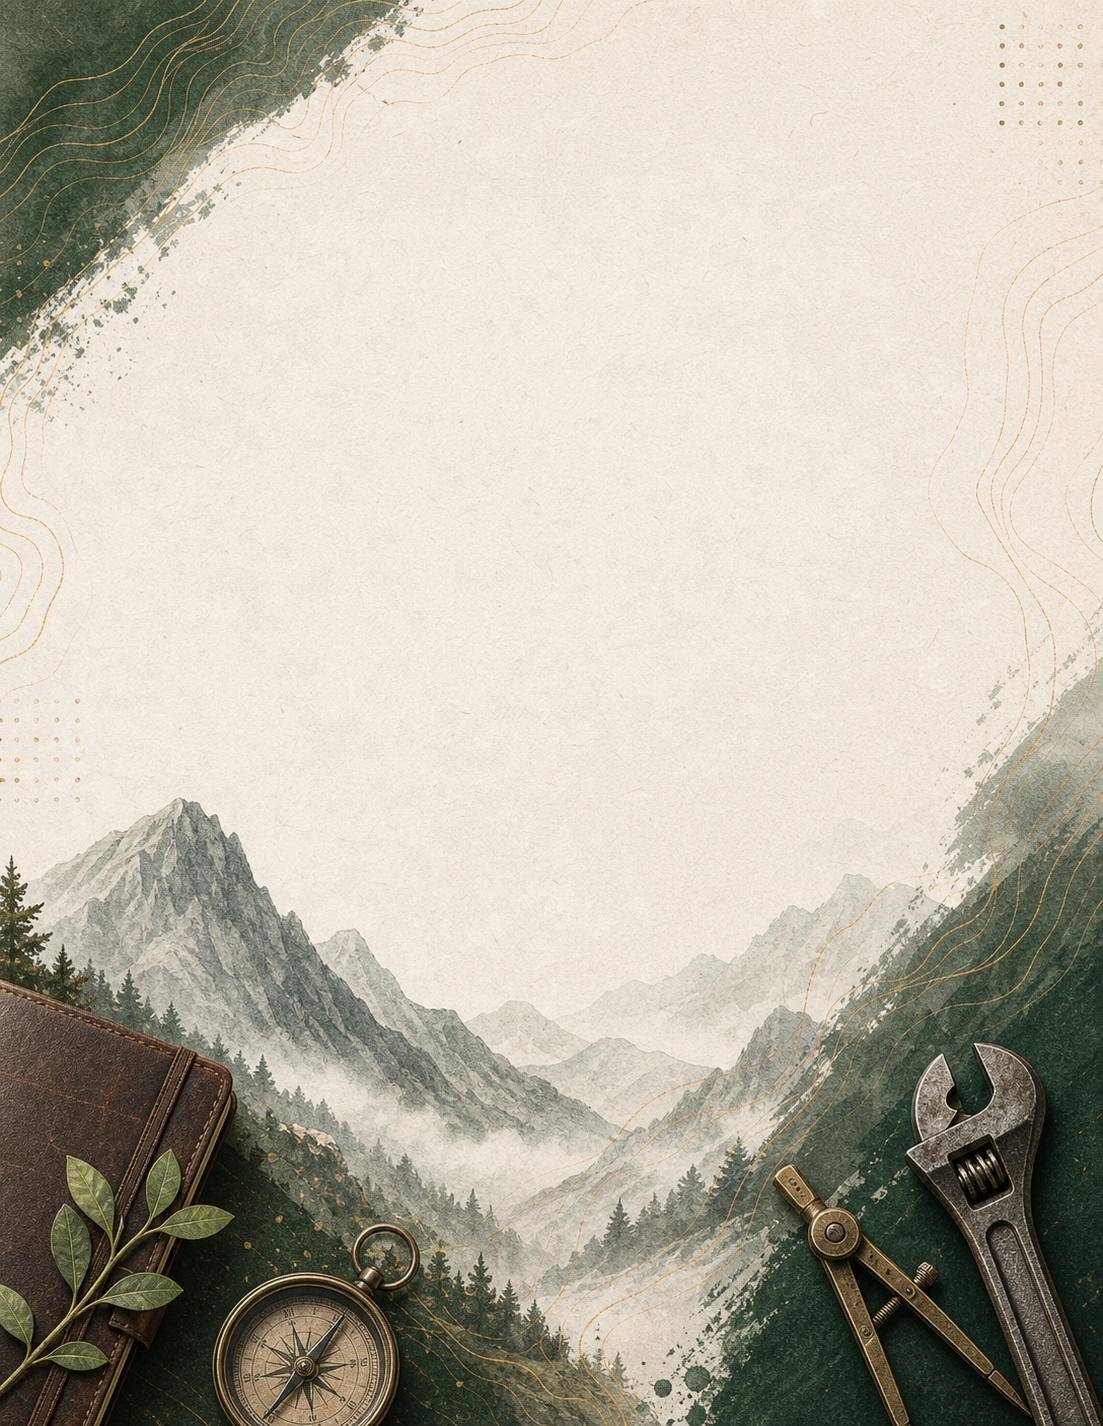
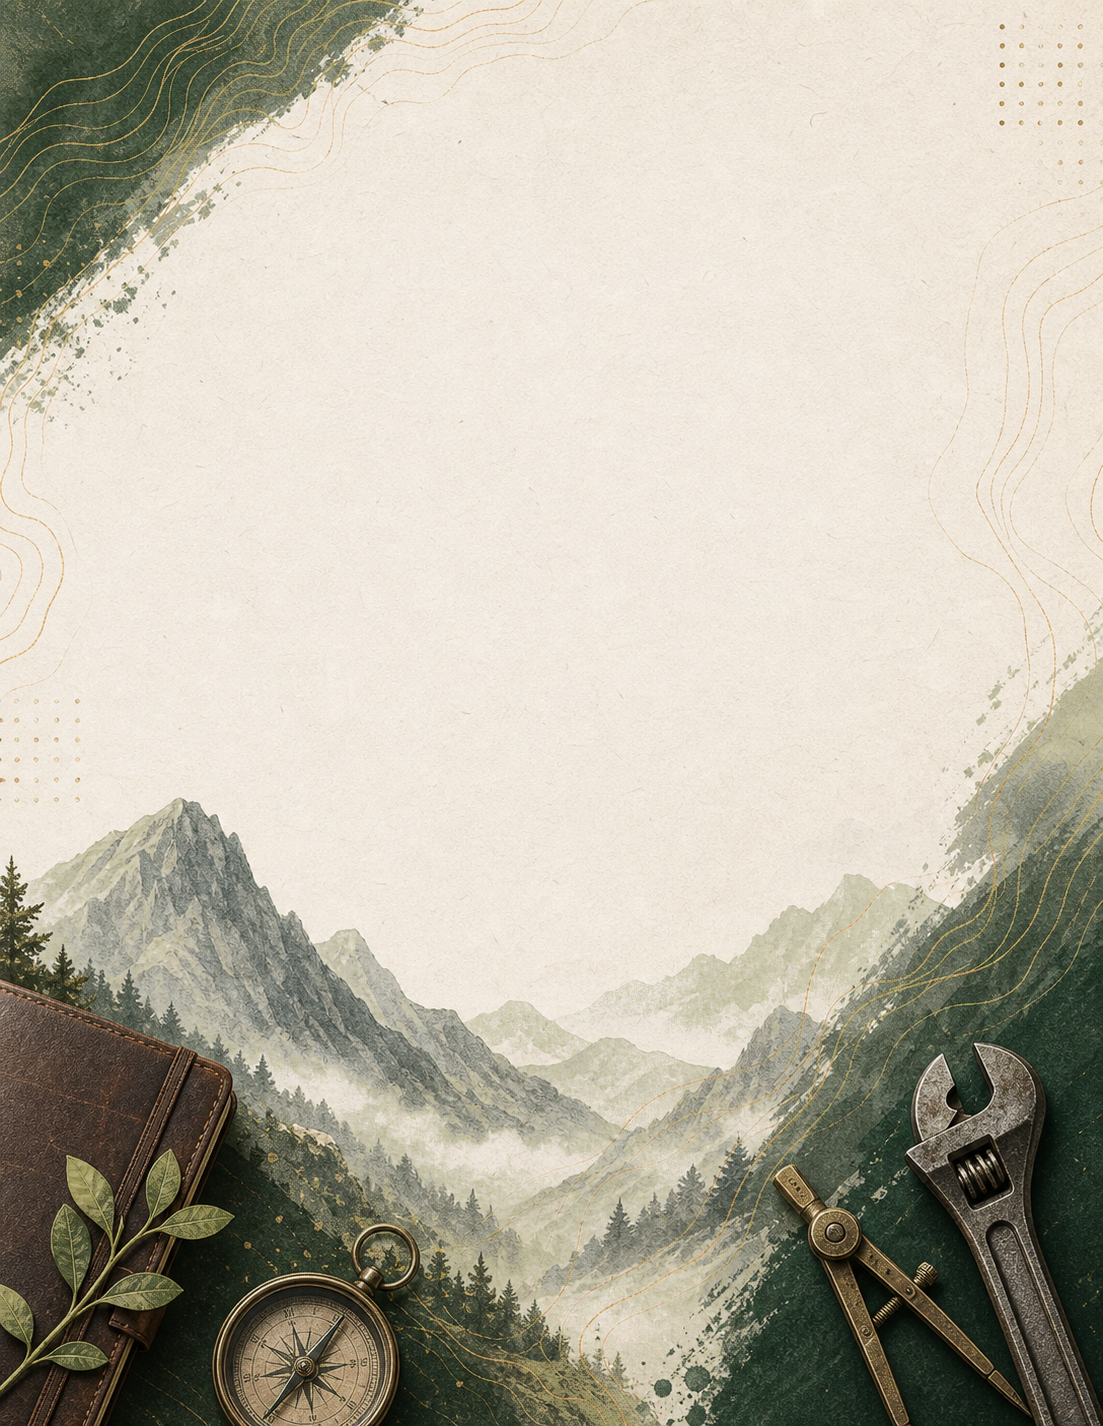
Correct Land green gold palette

diff --git a/tokens/index.ts b/tokens/index.ts
@@ -120,11 +120,11 @@ export const designPresetTokens = {
     paperAlt: "#D8CEC2",
     ink: "#3E5A45",
     mutedInk: "#8A6B4D",
-    accent: "#9CCB7A",
+    accent: "#BDB369",
     accentSoft: "#D8CEC2",
     plum: "#3E5A45",
     lilac: "#D8CEC2",
-    gold: "#9CCB7A",
+    gold: "#BDB369",
     sage: "#8DAE8C",
     rose: "#8A6B4D",
     blue: "#8DAE8C",
@@ -170,11 +170,11 @@ export const designPresetTokens = {
     paperAlt: "#D8CEC2",
     ink: "#3E5A45",
     mutedInk: "#8A6B4D",
-    accent: "#9CCB7A",
+    accent: "#BDB369",
     accentSoft: "#D8CEC2",
     plum: "#3E5A45",
     lilac: "#D8CEC2",
-    gold: "#9CCB7A",
+    gold: "#BDB369",
     sage: "#8DAE8C",
     rose: "#8A6B4D",
     blue: "#8DAE8C",
@@ -270,11 +270,11 @@ export const designPresetTokens = {
     paperAlt: "#D8CEC2",
     ink: "#3E5A45",
     mutedInk: "#8A6B4D",
-    accent: "#9CCB7A",
+    accent: "#BDB369",
     accentSoft: "#D8CEC2",
     plum: "#3E5A45",
     lilac: "#D8CEC2",
-    gold: "#9CCB7A",
+    gold: "#BDB369",
     sage: "#8DAE8C",
     rose: "#8A6B4D",
     blue: "#8DAE8C",

diff --git a/docs/approved-color-palettes.md b/docs/approved-color-palettes.md
@@ -21,7 +21,7 @@ These palettes are the locked source of truth for Kit Factory styling. Confirm a
 | Forest Green | `#3E5A45` |
 | Warm Stone | `#D8CEC2` |
 | Soft Cream | `#F6F3ED` |
-| Green Gold | `#9CCB7A` |
+| Green Gold | `#BDB369` |
 | Earth Brown | `#8A6B4D` |
 | Ink Charcoal | `#1E2121` |
 
